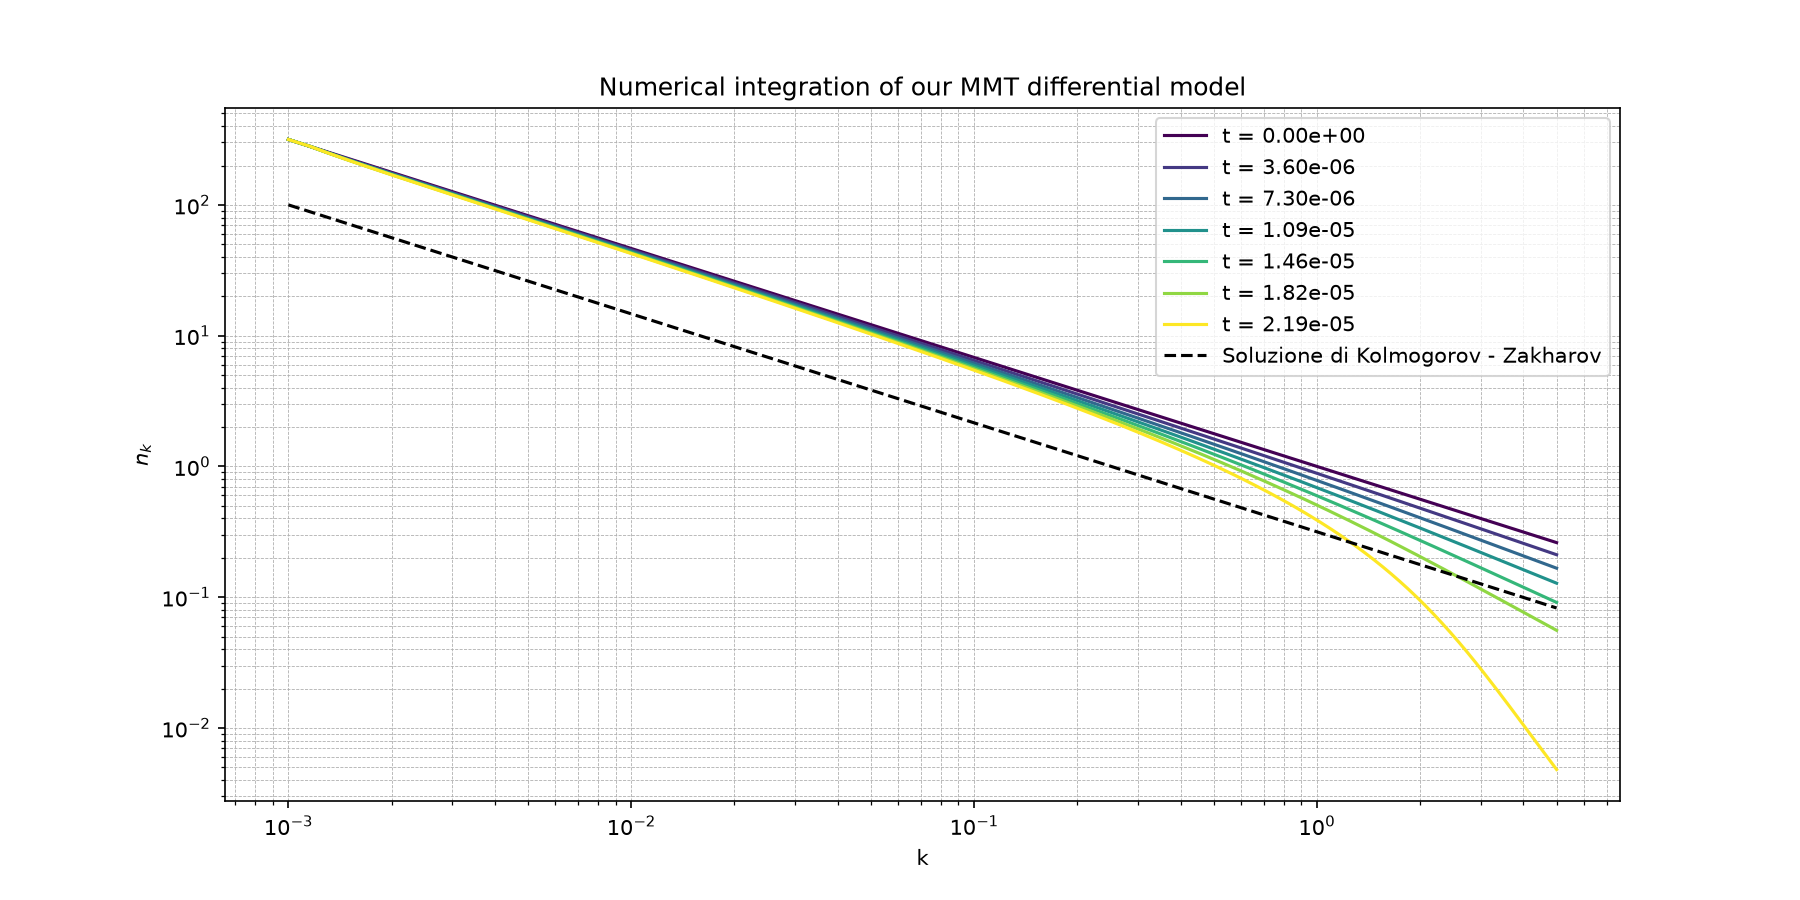
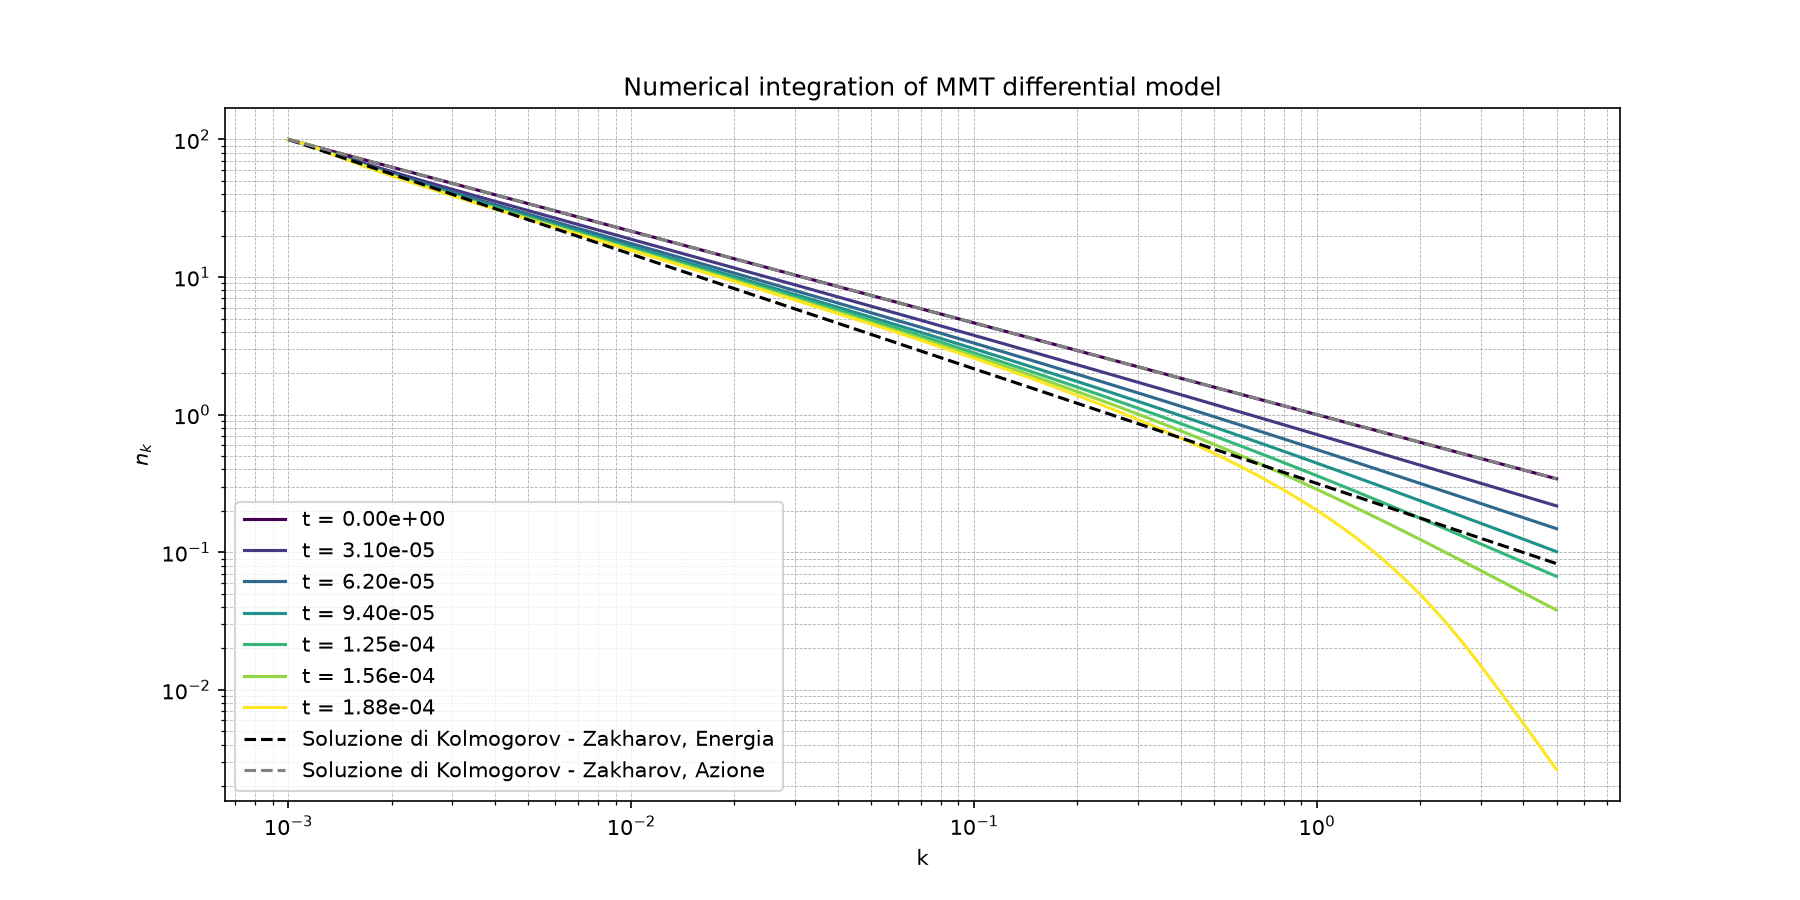
Refactor code structure for improved readability and maintainability

diff --git a/main_DAM.py b/main_DAM.py
@@ -1,5 +1,5 @@
 import numpy as np
-from DAM import integrate, plot_results, k_space, initial_condition, rhs, integrate_chunked, apply_bc, initial_condition_gaussian
+from DAM import integrate, plot_results, k_space, initial_condition, rhs, integrate_chunked, apply_bc, initial_condition_gaussian, rhs_action
 from scipy.integrate import solve_ivp
 
 eta1 = 216
@@ -8,11 +8,13 @@ eta2 = 162
 k, dlnk = k_space(1e-3, 5, 300)
 k0 = k[135] 
 
-n_k = initial_condition(1.0, k, -5/6)
-n_k_gaus = initial_condition_gaussian(1.0, k, k0, 0.6, 0.1, -5/6)
+n_k = initial_condition(1.0, k, -2/3)
+n_k_gaus = initial_condition_gaussian(1.0*k[0]**(1/6), k, k0, 0.4, 0.3, -5/6)
+n_k_action = initial_condition(1.0*k[0]**(1/6), k, -5/6)
 
 n_left_fix = n_k[:6].copy() 
 n_left_fix_g = n_k_gaus[:6].copy()
+n_left_fix_action = n_k_action[:6].copy()
 
 #t_eval = np.linspace(0.0, 1.0, 1000001)
 
@@ -20,7 +22,7 @@ n_left_fix_g = n_k_gaus[:6].copy()
 #                 method="BDF", t_eval=t_eval, rtol=1e-6, atol=1e-10)
 
 ts, ns = integrate_chunked(
-    rhs, n_k, (0.0, 1.0), dt_chunk=1e-7,
+    rhs_action, n_k, (0.0, 1.0), dt_chunk=1e-6,
     apply_bc_func=apply_bc,
     bc_args=(k, n_left_fix, 6, 6, 4),
     rhs_args=(k, n_left_fix, dlnk, eta1, eta2),
@@ -28,17 +30,20 @@ ts, ns = integrate_chunked(
 )
 
 tsg, nsg = integrate_chunked(
-    rhs, n_k_gaus, (0.0, 1.0), dt_chunk=1e-8,
+    rhs, n_k_gaus, (0.0, 2e-4), dt_chunk=1e-8,
     apply_bc_func=apply_bc,
     bc_args=(k, n_left_fix_g, 6, 6, 4),
     rhs_args=(k, n_left_fix_g, dlnk, eta1, eta2),
     rtol=1e-5, atol=1e-10
 )
 
-#print("positiva ovunque:", np.all(ns.y > 0))
-print("positiva ovunque:", np.all(ns > 0))
-#print("finito ovunque:", np.all(np.isfinite(ns.y)))
-print("finito ovunque:", np.all(np.isfinite(ns)))
+tsa, nsa = integrate_chunked(
+    rhs_action, n_k_action, (0.0, 1.0), dt_chunk=1e-6,
+    apply_bc_func=apply_bc,
+    bc_args=(k, n_left_fix_action, 6, 6, 4),
+    rhs_args=(k, n_left_fix_action, dlnk, eta1, eta2),
+    rtol=1e-5, atol=1e-10
+)
 
 ln_k = np.log(k)
 #p_final = np.gradient(np.log(np.maximum(ns.y[:, -1], 1e-30)), ln_k)
@@ -53,4 +58,5 @@ print("errore relativo sull'ultimo esponente di power law: ", np.abs(p_final + 5
 
 plot_results(ts, ns, n_snap = 7, k = k, save_path = "outputs_DAM/DAM_results.png", show = False)
 plot_results(tsg, nsg, n_snap = 7, k = k, save_path = "outputs_DAM/DAM_results_gaussian_bump.png", show = False)
+plot_results(tsa, nsa, n_snap = 7, k = k, save_path = "outputs_DAM/DAM_results_action.png", show = False)
 #plot_results(ns.t, ns.y.T, n_snap = 7, k = k, save_path = "outputs_DAM/DAM_results.png", show = False)

diff --git a/DAM.py b/DAM.py
@@ -75,6 +75,22 @@ def rhs(t, n, k, n_left_fix, dlnk , eta1, eta2):
 
     return dndt
 
+def rhs_action(t, n, k, n_left_fix, dlnk , eta1, eta2):
+    n = apply_bc(n, k, n_left_fix, buf_left = 6, buf_right = 6, fit_points = 4)
+
+    dndk = dndk_upwind(n, k, dlnk)
+    d2ndk2 = d2ndk2_center(n, k, dlnk)
+        
+    N = np.trapezoid(n, k)
+
+    dndt_action = - (N**3) * (
+        -eta1 * (1/n) * dndk + eta1 * (k / (n**2)) * (dndk**2) - eta1 * (k/n) * d2ndk2 + eta2 * (2*k/(n**2)) * (dndk**2)
+            - 2 * eta2 * ((k**2)/(n**3)) * (dndk**3) + 2 * eta2 * ((k**2)/(n**2)) * dndk * d2ndk2
+        )
+    dndt_action[:6] = 0.0
+
+    return dndt_action
+
 def rk4_step(rhs, t, n, dt, k, n_left_fix, dlnk , eta1, eta2):
     k1 = rhs(t, n, k, n_left_fix, dlnk , eta1, eta2)
     k2 = rhs(t + dt/2, n + dt/2 * k1, k, n_left_fix, dlnk , eta1, eta2)
@@ -148,6 +164,7 @@ def plot_results(ts, ns, n_snap, k, save_path = None, show = True):
 
     n_snapshots = n_snap
     n_kz = initial_condition(1.0*k[0]**(1/6), k, -5/6)
+    n_kz_a = initial_condition(1, k, -2/3)
     
     idx = np.linspace(0, len(ts) - 1, n_snapshots).astype(int)
     colors = plt.cm.viridis(np.linspace(0, 1, n_snapshots))
@@ -156,14 +173,15 @@ def plot_results(ts, ns, n_snap, k, save_path = None, show = True):
     for i, j in enumerate(idx):
         t = ts[j]
         ax.plot(k, ns[j], color=colors[i], label=f"t = {ts[j]:.2e}")
-    ax.plot(k, n_kz, color = "black", label = "Soluzione di Kolmogorov - Zakharov", ls = "--")
+    ax.plot(k, n_kz, color = "black", label = "Soluzione di Kolmogorov - Zakharov, Energia", ls = "--")
+    ax.plot(k, n_kz_a, color = "grey", label = "Soluzione di Kolmogorov - Zakharov, Azione", ls = "--")
 
-    ax.set_title("Numerical integration of our MMT differential model")
+    ax.set_title("Numerical integration of MMT differential model")
     ax.set_xscale("log")
     ax.set_yscale("log")
     ax.set_xlabel("k")
     ax.set_ylabel(r"$n_k$")
-    ax.legend()
+    ax.legend(loc= "lower left")
     ax.grid(True, which="both", ls="--", lw=0.4)
 
     if save_path:
